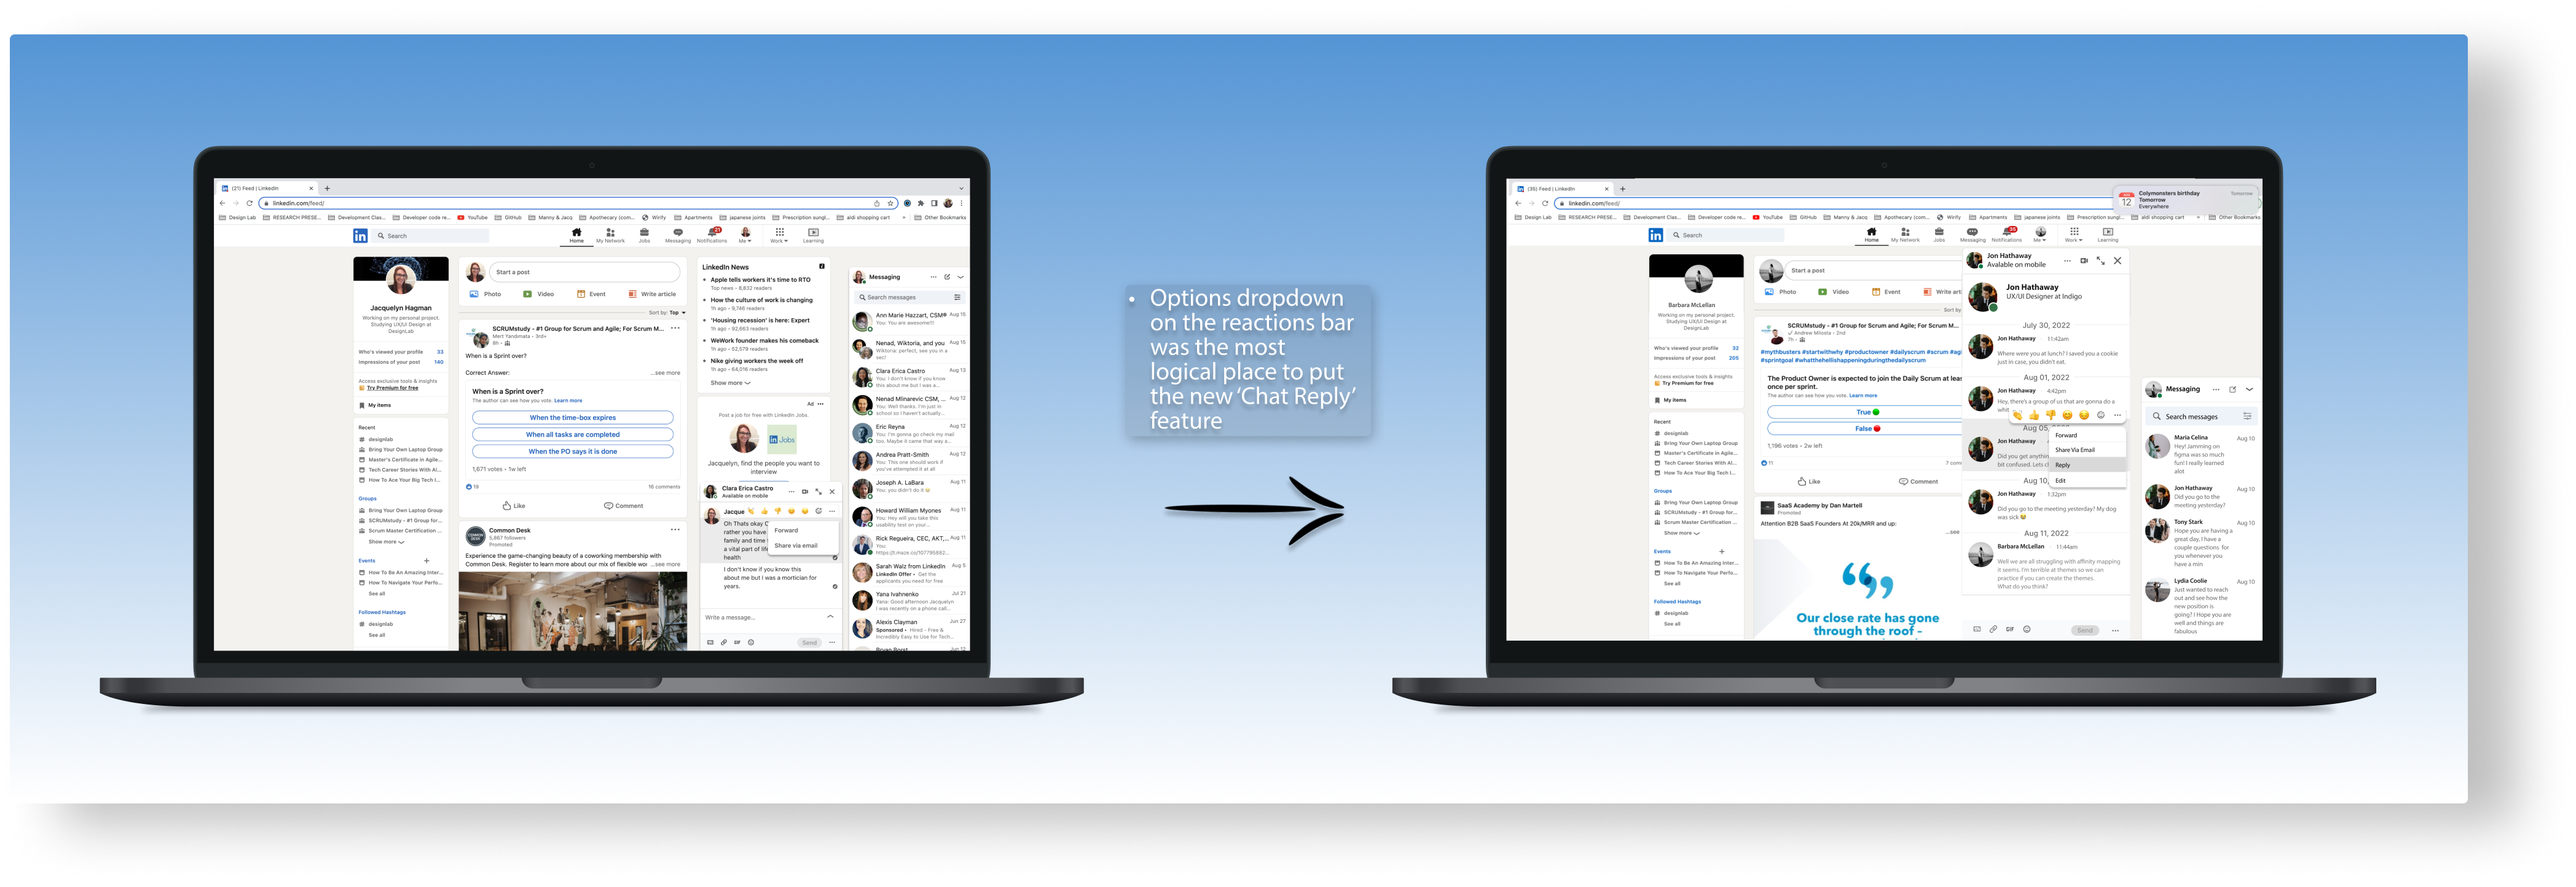
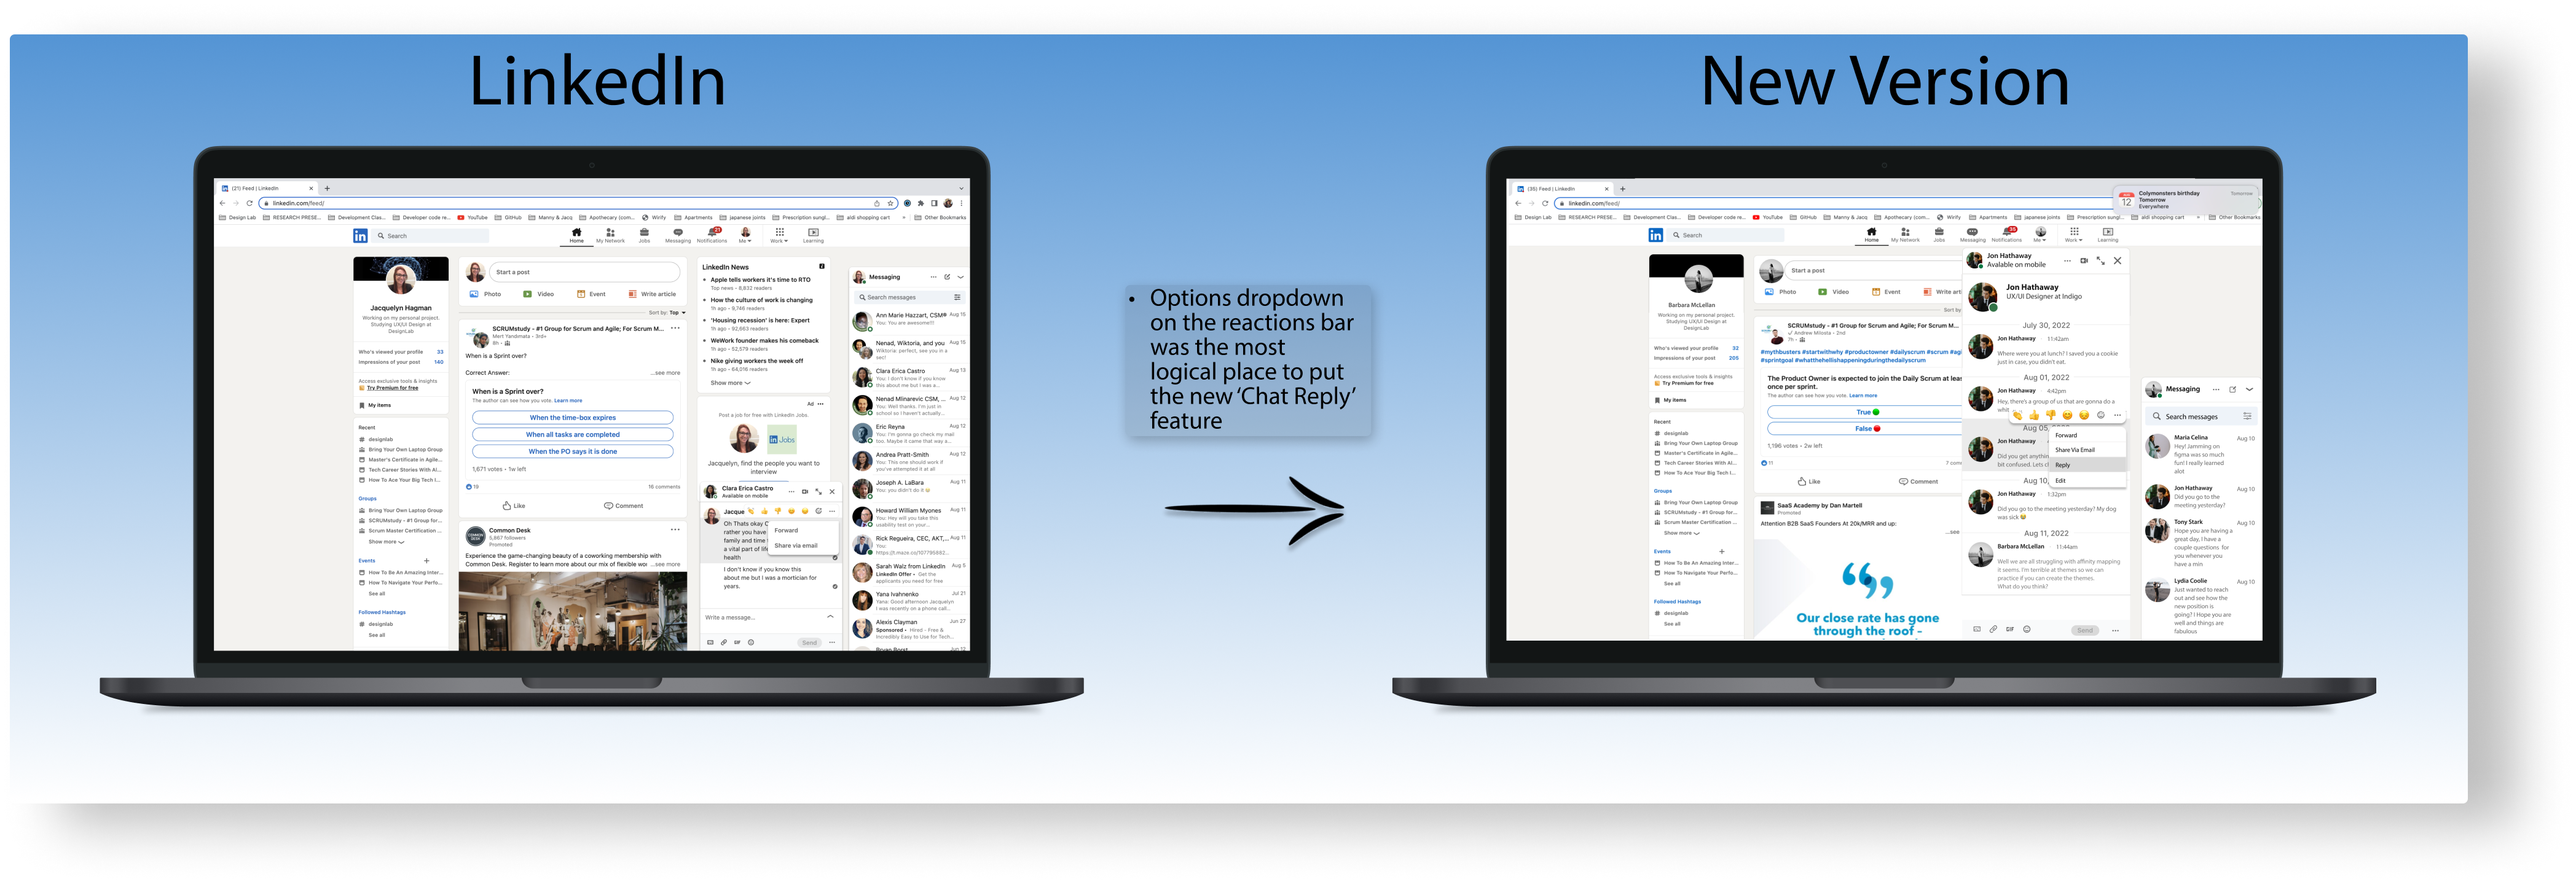
Add final content and images

Changed region(s): [[0.4375, 0.3116, 0.5312, 0.4986], [0.6562, 0.0623, 0.8125, 0.1247], [0.1875, 0.0623, 0.2812, 0.1247]]

diff --git a/src/LinkedIn.js b/src/LinkedIn.js
@@ -42,36 +42,19 @@ const projectContentList = [
 const ereHomeScreenWireframes = [
   {
     id: uuidv4(),
-    title: 'Home',
-    subtitle: 'Call to action for people ready to get products they need',
-    wireFrameImage: require('./assets/home.png'),
+    title: '',
+    subtitle: '',
+    wireFrameImage: require('./assets/laptop-mockup-row-1.png'),
   },
-  {
-    id: uuidv4(),
-    title: 'Home CTA2',
-    subtitle: 'Learn more about ERE products',
-    wireFrameImage: require('./assets/home-cta-2.png'),
-  },
-  {
-    id: uuidv4(),
-    title: 'Home CTA3',
-    subtitle: 'More information about engine stands',
-    wireFrameImage: require('./assets/home-cta-3.png'),
-  },
-  {
-    id: uuidv4(),
-    title: 'Testimonials',
-    subtitle: 'Customer product and shopping reviews',
-    wireFrameImage: require('./assets/testimonials.png'),
-  },
+  
 ];
 
 const ereAboutScreenWireframes = [
   {
     id: uuidv4(),
-    title: 'About Page',
-    subtitle: 'Engage the users',
-    wireFrameImage: require('./assets/about.png'),
+    title: 'Home CTA2',
+    subtitle: 'Learn more about ERE products',
+    wireFrameImage: require('./assets/laptop-mockup-row-2.png'),
   },
   {
     id: uuidv4(),
@@ -485,41 +468,49 @@ function LinkedIn() {
           <section id='home' style={{ marginBottom: 100 }}>
             <div className='content'>
               <h2 style={{ marginBottom: 50 }} className='has-text-centered'>
-                Home Screen Flow
+                Emoji/Options Dropdown Component
               </h2>
-              <WireFrames wireFrameData={ereHomeScreenWireframes} />
+              <img src={require('./assets/laptop-mockup-row-1.png')} />
             </div>
           </section>
           <section id='about' style={{ marginBottom: 100 }}>
             <div className='content'>
               <h2 style={{ marginBottom: 50 }} className='has-text-centered'>
-                About Screen Flow
+                Scrim
               </h2>
-              <WireFrames wireFrameData={ereAboutScreenWireframes} />
+              <img src={require('./assets/laptop-mockup-row-2.png')} />
             </div>
           </section>
           <section id='products' style={{ marginBottom: 100 }}>
             <div className='content'>
               <h2 style={{ marginBottom: 50 }} className='has-text-centered'>
-                Product Screens Flow
+                Chat Reply Bubble
               </h2>
-              <WireFrames wireFrameData={ereProductScreenWireframes} />
+              <img src={require('./assets/laptop-mockup-row-3.png')} />
             </div>
           </section>
           <section id='auth' style={{ marginBottom: 100 }}>
             <div className='content'>
               <h2 style={{ marginBottom: 50 }} className='has-text-centered'>
-                Checkout Flow
+                Emoji/Options Component
               </h2>
-              <WireFrames wireFrameData={ereCheckoutScreenWireframes} />
+              <img src={require('./assets/mobile-mockup-row-1.png')} />
             </div>
           </section>
           <section id='contact' style={{ marginBottom: 100 }}>
             <div className='content'>
               <h2 style={{ marginBottom: 50 }} className='has-text-centered'>
-                Contact Flow
+                Scrim
               </h2>
-              <WireFrames wireFrameData={ereContactScreenWireframes} />
+              <img src={require('./assets/mobile-mockup-row-2.png')} />
+            </div>
+          </section>
+          <section id='contact' style={{ marginBottom: 100 }}>
+            <div className='content'>
+              <h2 style={{ marginBottom: 50 }} className='has-text-centered'>
+                Chat Reply Bubble
+              </h2>
+              <img src={require('./assets/mobile-mockup-row-3.png')} />
             </div>
           </section>
         </div>
@@ -589,10 +580,12 @@ function LinkedIn() {
                       <ul>
                         <li>Home Screen - hook up message bubble in navbar </li>
                         <li>
-                          Build out the screen that message bubble in the
-                          navbar connects to.
+                          Build out the screen that message bubble in the navbar
+                          connects to.
                         </li>
-                        <li>Build out the components this new screen will require</li>
+                        <li>
+                          Build out the components this new screen will require
+                        </li>
                         <li>
                           Hook it up to my existing protoype to see if this will
                           help get a more accurate gauge on the feature
@@ -615,25 +608,56 @@ function LinkedIn() {
                     <div style={{ maxWidth: 840 }}>
                       <ul>
                         <li>
-                          <h6>You cannot-I repeat-cannot test a new feature in an existing platform and not account for all paths users take to get there!</h6>
+                          <h6>
+                            You cannot-I repeat-cannot test a new feature in an
+                            existing platform and not account for all paths
+                            users take to get there!
+                          </h6>
                         </li>
                         <p>
-                          Users want what they want! This is not negative at all! It teaches us valuable lessons about mental models. If I were to test this with 100 people, my assumption is that only 30 would make it to the new feature to test it. Reason: I didn't account for the more likely path that the other 70 people would choose. 
-                          I am curious now though, if I ran it again with only the new path hooked up would the results of that test be 70 made it and 30 never making it? Unfortunately with the constraint of two weeks I set for myself, at this time I will just move into the revision phase and test both paths. I will definitely revisit this and test the second path alone to see if my assumptions are correct or if I will uncover more gold!
+                          Users want what they want! This is not negative at
+                          all! It teaches us valuable lessons about mental
+                          models. If I were to test this with 100 people, my
+                          assumption is that only 30 would make it to the new
+                          feature to test it. Reason: I didn't account for the
+                          more likely path that the other 70 people would
+                          choose. I am curious now though, if I ran it again
+                          with only the new path hooked up would the results of
+                          that test be 70 made it and 30 never making it?
+                          Unfortunately with the constraint of two weeks I set
+                          for myself, at this time I will just move into the
+                          revision phase and test both paths. I will definitely
+                          revisit this and test the second path alone to see if
+                          my assumptions are correct or if I will uncover more
+                          gold!
                         </p>
                         <li>
-                          <h6>Attempting an 'Adding a Feature Project' is priceless</h6>
+                          <h6>
+                            Attempting an 'Adding a Feature Project' is
+                            priceless
+                          </h6>
                         </li>
                         <p>
-                         I think I learned more than I ever have about users, user/task flows, mental models, and design systems than I could of ever expected. Users are used to these platforms already and use them daily, so when they aren't given what they are used to test results can get skewed very quickly.
+                          I think I learned more than I ever have about users,
+                          user/task flows, mental models, and design systems
+                          than I could of ever expected. Users are used to these
+                          platforms already and use them daily, so when they
+                          aren't given what they are used to test results can
+                          get skewed very quickly.
                         </p>
-                        
-                         
+
                         <li>
                           <h6>Test Throughout</h6>
                         </li>
                         <p>
-                          This was a bit more difficult to accomplish in this project, and it showed me that no matter what, I should always test no matter how difficult it is. Even if it's by asking participants to just open the existing platform and show me how they navigate it. If I would have implimented this step I would have made the realization much earlier,  that there was an important step I was missing in this project.
+                          This was a bit more difficult to accomplish in this
+                          project, and it showed me that no matter what, I
+                          should always test no matter how difficult it is. Even
+                          if it's by asking participants to just open the
+                          existing platform and show me how they navigate it. If
+                          I would have implimented this step I would have made
+                          the realization much earlier, that there was an
+                          important step I was missing in this project.
                         </p>
                       </ul>
                       <hr />
@@ -642,20 +666,19 @@ function LinkedIn() {
                           <h1> Next steps</h1>
                           <ol>
                             <li>
-                              <p>
-                                Move into the Iteration Phase 
-                              </p>
-                            </li>
-                            <li>
-                              <p>Build out new screens and components to add to my existing prototype</p>
+                              <p>Move into the Iteration Phase</p>
                             </li>
                             <li>
                               <p>
-                                Re-test final prototype
+                                Build out new screens and components to add to
+                                my existing prototype
                               </p>
+                            </li>
+                            <li>
+                              <p>Retest final prototype</p>
                             </li>
                           </ol>
-                         
+
                           <h5>
                             If you'd like to know more about this project, or if
                             you are interested in collaborating, I'd love to

diff --git a/src/Projects.js b/src/Projects.js
@@ -2,7 +2,7 @@ import React from 'react';
 import Project from './Project';
 import Desktop from './assets/Device Mashups-0.png';
 import Device from './assets/Device Mashups.png';
-import Linkedin from './assets/linkedin-cover.png';
+import Linkedin from './assets/laptop-4.png';
 import { v4 as uuidv4 } from 'uuid';
 
 const projectList = [
